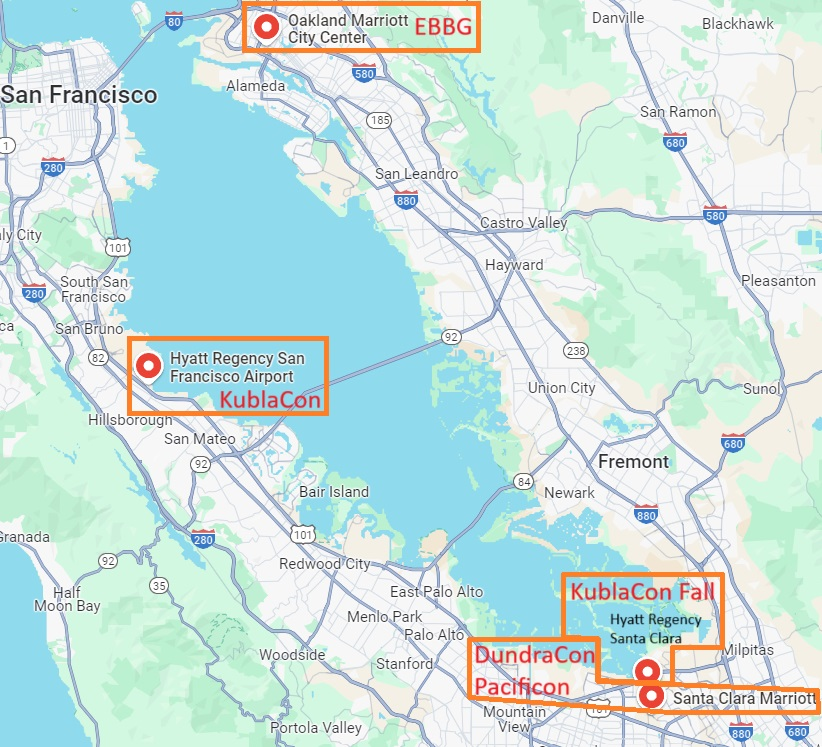
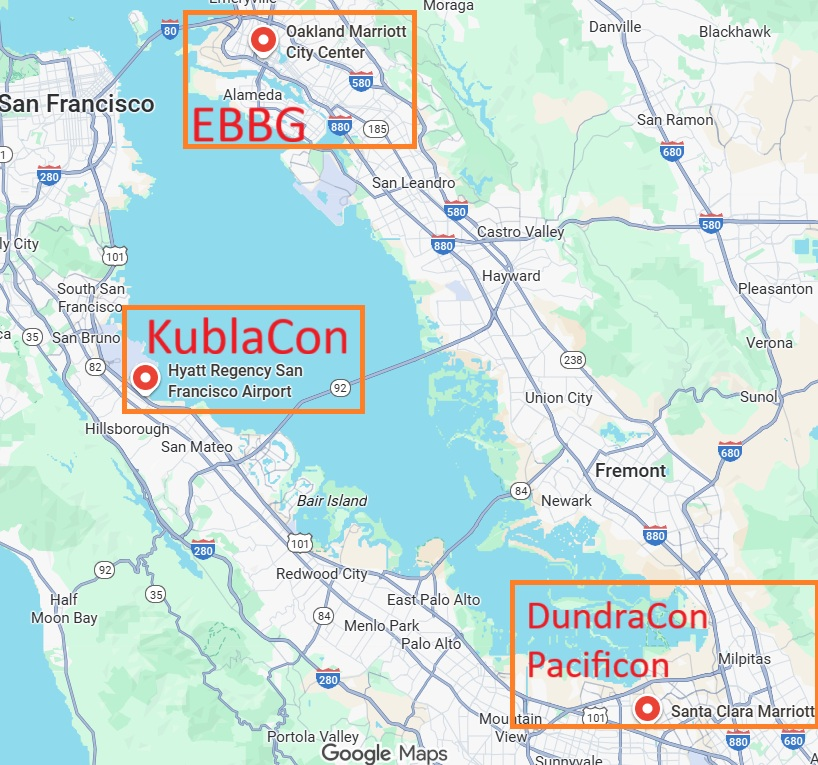
KublaCon Fall 2025 Update
New Location/Date

diff --git a/index.html b/index.html
@@ -111,7 +111,7 @@
                         </tr>
                         <tr>
                             <td><a href="https://galaxycon.com/pages/galaxycon-san-jose">GalaxyCon San Jose</a></td>
-                            <td>TBD</td>
+                            <td>N/A</td>
                             <td>Aug 15-17, 2025 at <a href="https://maps.app.goo.gl/nnvtNeaV2ucfusgo8">San Jose McEnery Convention Center</a></td>
                         </tr>
                         <tr>
@@ -121,8 +121,8 @@
                         </tr>
                         <tr>
                             <td><a href="https://kublacon.com/kublacon-fall/">KublaCon Fall</a></td>
-                            <td>TBD</td>
-                            <td>November 8-11, 2025 at <a href="https://maps.app.goo.gl/Nw4SYLRJH78zgg9JA">Hyatt Regency Santa Clara</a></td>
+                            <td><a href="https://warhorn.net/events/kublafall-2025">KublaFall 2025</a></td>
+                            <td>November 14-17, 2025 at <a href="https://maps.app.goo.gl/6LujasXuYhtj91KUA">Hyatt Regency San Francisco Airport</a></td>
                         </tr>
                     </tbody>
                 </table>
